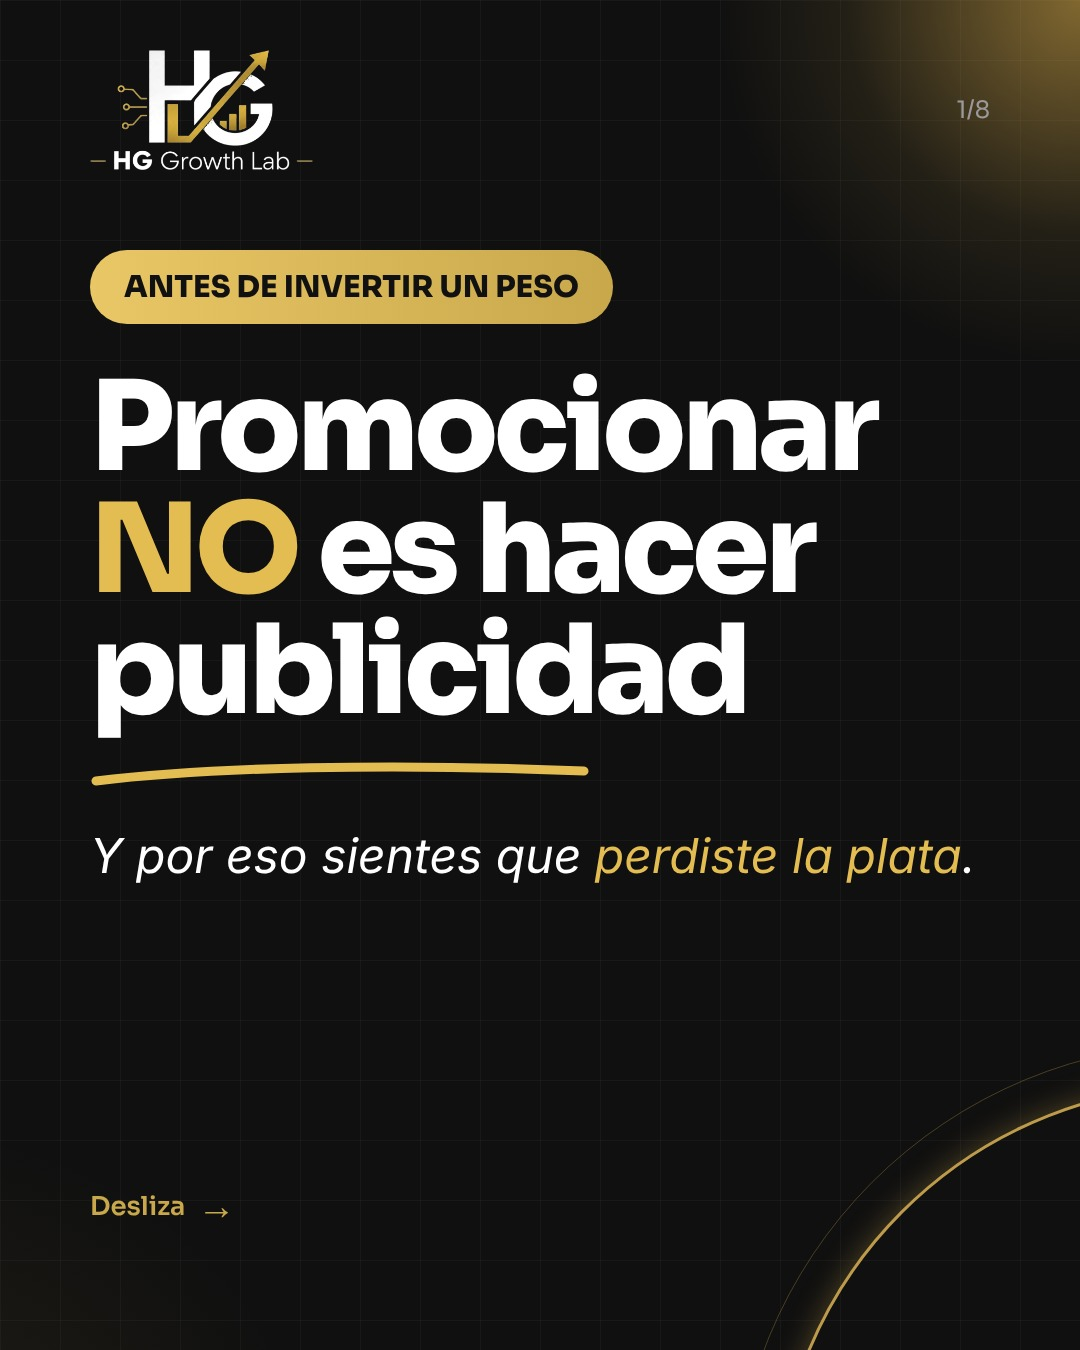
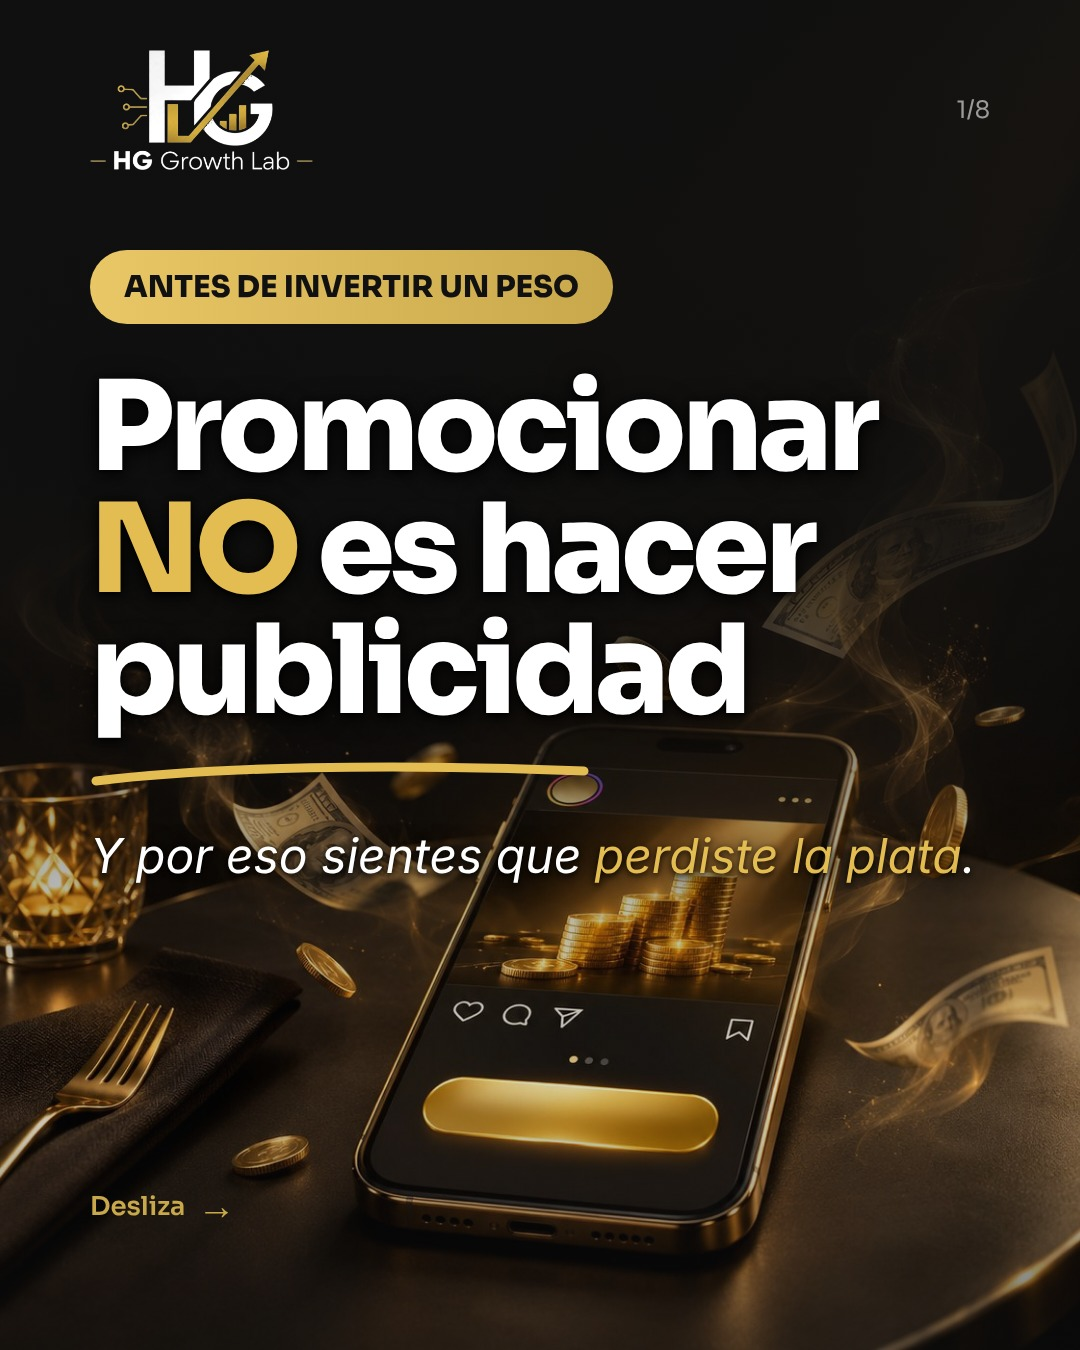
Portadas con imagen (ChatGPT) para vie, sáb y dom
Claude-Session: https://claude.ai/code/session_01CKAKoER73vdBaQcN697dmH

diff --git a/engine/render.js b/engine/render.js
@@ -71,6 +71,7 @@ p{font-size:40px;line-height:1.42;color:#D6D6D6}
 .bgimg{position:absolute;inset:0;background-size:cover;background-position:center bottom;z-index:0}
 .bgimg::after{content:'';position:absolute;inset:0;background:linear-gradient(180deg,rgba(16,16,16,.97) 0%,rgba(16,16,16,.88) 38%,rgba(16,16,16,.35) 62%,rgba(16,16,16,.15) 80%,rgba(16,16,16,.6) 100%)}
 .s.hasimg::after{display:none}
+.s.hasimg h1,.s.hasimg .sub{text-shadow:0 4px 24px rgba(0,0,0,.85),0 2px 6px rgba(0,0,0,.9)}
 .photo{width:100%;height:360px;border-radius:28px;background-size:cover;background-position:center;border:2px solid rgba(201,168,76,.45);box-shadow:0 30px 60px rgba(0,0,0,.55);margin-bottom:34px;flex:none}
 .sign{margin-top:40px;font-family:Sora;font-size:28px;color:var(--g)}
 `;
